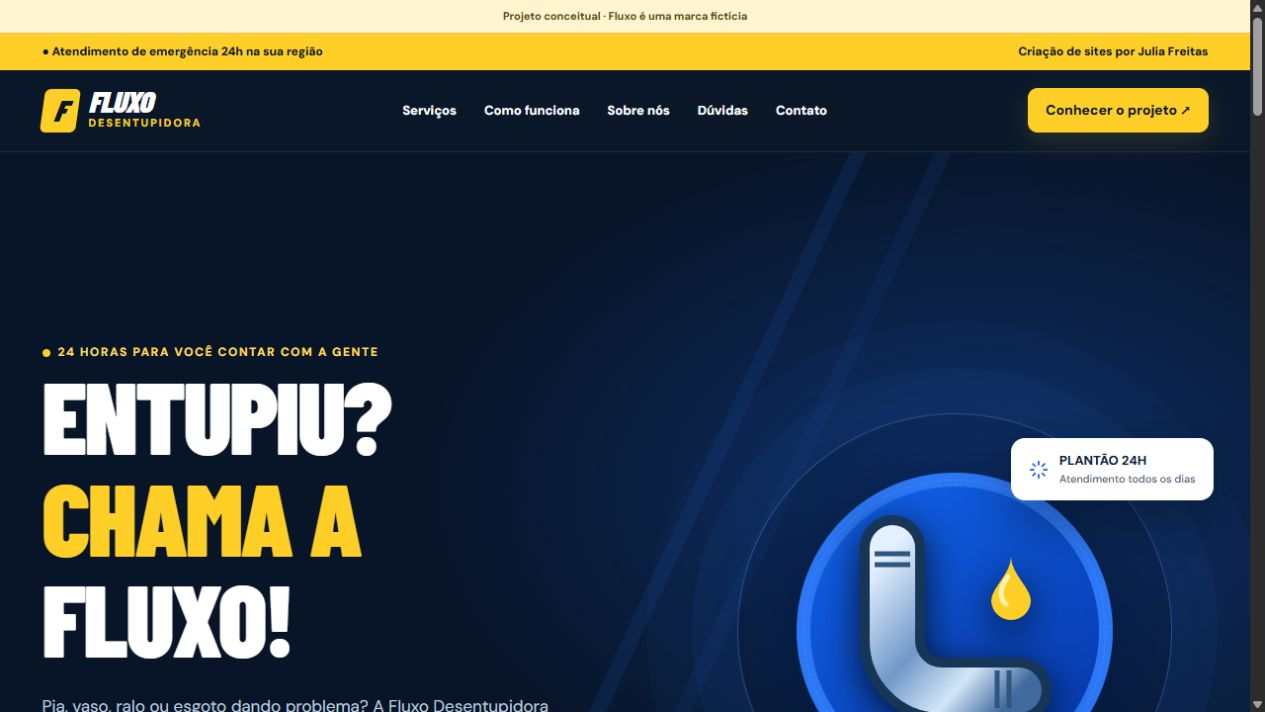
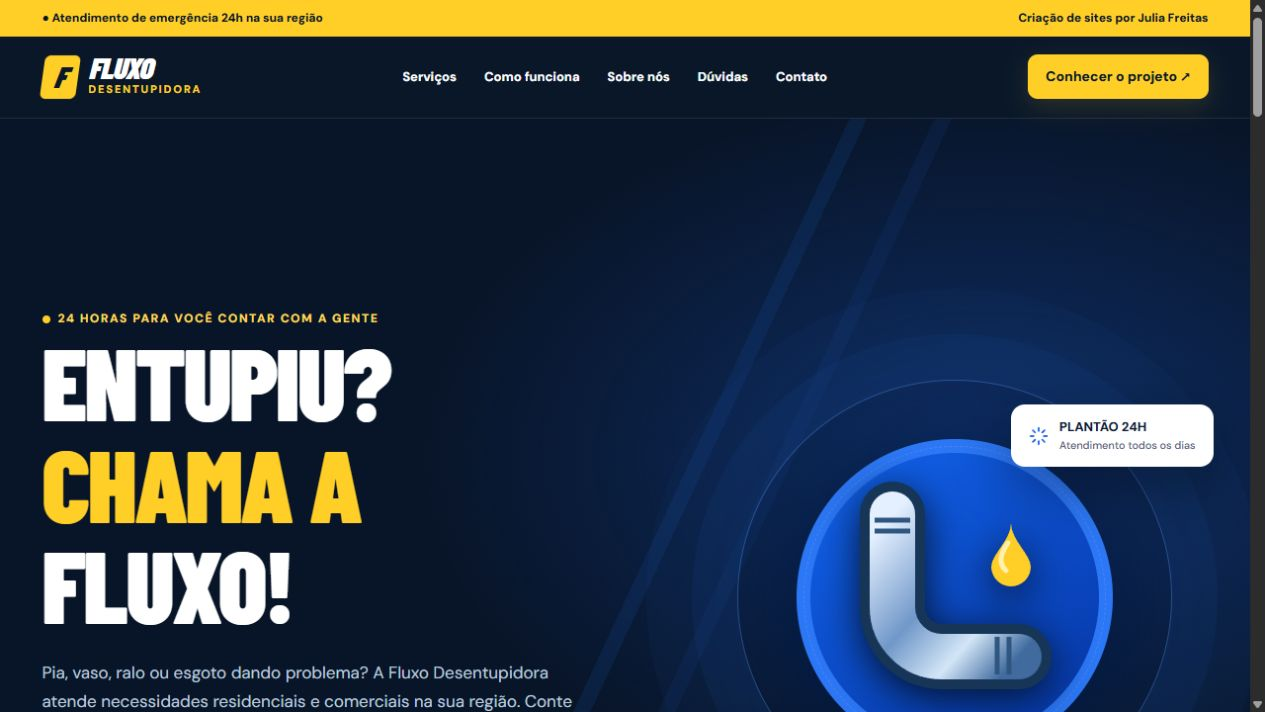
feat: ampliar portfólio com projetos conceituais

diff --git a/src/App.tsx b/src/App.tsx
@@ -190,6 +190,142 @@ const projects = [
     tone: "fight",
     image: "/projects/screenshots/fluxo-desentupidora.jpg",
   },
+  {
+    "index": "13",
+    "title": "Áuria Superfícies",
+    "eyebrow": "Marmoraria • projeto conceitual",
+    "url": "https://julia-conceitos.vercel.app/auria-superficies/",
+    "description": "Uma apresentação de superfícies em pedra com composição editorial, imagens de ambientes e navegação entre aplicações. Marca fictícia criada para o portfólio.",
+    "scope": [
+        "Identidade visual",
+        "Conteúdo",
+        "Design responsivo"
+    ],
+    "context": "Valorizar materiais e possibilidades de uso em espaços residenciais.",
+    "decision": "Combinar contrastes escuros, tipografia ampla e fotografias ilustrativas de arquitetura.",
+    "delivery": "Projeto navegável e responsivo, com imagens ilustrativas e contato para conversar sobre a criação de um site semelhante.",
+    "tone": "stone",
+    "image": "/projects/screenshots/auria-superficies.jpg"
+},
+  {
+    "index": "14",
+    "title": "Orbe Pedras",
+    "eyebrow": "Marmoraria • projeto conceitual",
+    "url": "https://julia-conceitos.vercel.app/orbe-pedras/",
+    "description": "Um site para uma marca fictícia de mármores e granitos, com foco nas relações entre materiais, acabamentos e ambientes. Marca fictícia criada para o portfólio.",
+    "scope": [
+        "Identidade visual",
+        "Conteúdo",
+        "Design responsivo"
+    ],
+    "context": "Organizar a apresentação de materiais e aplicações em uma experiência visual clara.",
+    "decision": "Usar tons naturais, tipografia com serifa e uma hierarquia que aproxima a pedra da arquitetura.",
+    "delivery": "Projeto navegável e responsivo, com imagens ilustrativas e contato para conversar sobre a criação de um site semelhante.",
+    "tone": "stone",
+    "image": "/projects/screenshots/orbe-pedras.jpg"
+},
+  {
+    "index": "15",
+    "title": "Lúmina Vidros",
+    "eyebrow": "Vidros e alumínio • projeto conceitual",
+    "url": "https://julia-conceitos.vercel.app/lumina-vidros/",
+    "description": "Uma apresentação de soluções em vidro e alumínio, com navegação entre serviços e referências de aplicação. Marca fictícia criada para o portfólio.",
+    "scope": [
+        "Identidade visual",
+        "Conteúdo",
+        "Design responsivo"
+    ],
+    "context": "Reunir diferentes possibilidades de uso do vidro em uma página objetiva.",
+    "decision": "Equilibrar uma identidade escura com detalhes em laranja e fotografias ilustrativas de ambientes.",
+    "delivery": "Projeto navegável e responsivo, com imagens ilustrativas e contato para conversar sobre a criação de um site semelhante.",
+    "tone": "stone",
+    "image": "/projects/screenshots/lumina-vidros.jpg"
+},
+  {
+    "index": "16",
+    "title": "Aurum Auto",
+    "eyebrow": "Estética automotiva • projeto conceitual",
+    "url": "https://julia-conceitos.vercel.app/aurum-auto/",
+    "description": "Site conceitual de estética automotiva com apresentação de serviços, navegação por seções e galeria de referências visuais. Marca fictícia criada para o portfólio.",
+    "scope": [
+        "Identidade visual",
+        "Conteúdo",
+        "Design responsivo"
+    ],
+    "context": "Dar clareza aos cuidados automotivos em uma presença digital com acabamento visual.",
+    "decision": "Combinar azul escuro, amarelo e fotografias ilustrativas de veículos com uma navegação direta.",
+    "delivery": "Projeto navegável e responsivo, com imagens ilustrativas e contato para conversar sobre a criação de um site semelhante.",
+    "tone": "fight",
+    "image": "/projects/screenshots/aurum-auto.jpg"
+},
+  {
+    "index": "17",
+    "title": "Nexo Detail",
+    "eyebrow": "Detalhamento automotivo • projeto conceitual",
+    "url": "https://julia-conceitos.vercel.app/nexo-detail/",
+    "description": "Uma apresentação de detalhamento automotivo com identidade escura, referências de veículos e organização dos serviços. Marca fictícia criada para o portfólio.",
+    "scope": [
+        "Identidade visual",
+        "Conteúdo",
+        "Design responsivo"
+    ],
+    "context": "Apresentar possibilidades de cuidado com pintura e interior de veículos.",
+    "decision": "Destacar fotografia e títulos amplos, com uma paleta sóbria e detalhes dourados.",
+    "delivery": "Projeto navegável e responsivo, com imagens ilustrativas e contato para conversar sobre a criação de um site semelhante.",
+    "tone": "fight",
+    "image": "/projects/screenshots/nexo-detail.jpg"
+},
+  {
+    "index": "18",
+    "title": "Chaveiro Elo",
+    "eyebrow": "Chaveiro • projeto conceitual",
+    "url": "https://julia-conceitos.vercel.app/chaveiro-elo/",
+    "description": "Site conceitual com páginas dedicadas a serviços automotivos, residenciais e cópias de chaves. Marca fictícia criada para o portfólio.",
+    "scope": [
+        "Identidade visual",
+        "Conteúdo",
+        "Design responsivo"
+    ],
+    "context": "Organizar serviços técnicos em rotas próprias para facilitar a consulta.",
+    "decision": "Manter navegação direta, identidade amarela e preta e conteúdo distribuído por necessidade.",
+    "delivery": "Projeto navegável e responsivo, com imagens ilustrativas e contato para conversar sobre a criação de um site semelhante.",
+    "tone": "stone",
+    "image": "/projects/screenshots/chaveiro-elo.jpg"
+},
+  {
+    "index": "19",
+    "title": "Desentupidora Livre",
+    "eyebrow": "Serviços residenciais • projeto conceitual",
+    "url": "https://julia-conceitos.vercel.app/livre-desentupidora/",
+    "description": "Página conceitual de serviços hidráulicos com identidade azul e dourada e uma apresentação visual direta. Marca fictícia criada para o portfólio.",
+    "scope": [
+        "Identidade visual",
+        "Conteúdo",
+        "Design responsivo"
+    ],
+    "context": "Facilitar a compreensão de diferentes tipos de serviço em uma página.",
+    "decision": "Usar contraste, títulos objetivos e ilustrações para conduzir a leitura até os serviços.",
+    "delivery": "Projeto navegável e responsivo, com imagens ilustrativas e contato para conversar sobre a criação de um site semelhante.",
+    "tone": "fight",
+    "image": "/projects/screenshots/livre-desentupidora.jpg"
+},
+  {
+    "index": "20",
+    "title": "Desentupidora Canal",
+    "eyebrow": "Serviços residenciais • projeto conceitual",
+    "url": "https://julia-conceitos.vercel.app/canal-desentupidora/",
+    "description": "Um site conceitual de desentupimento com serviços organizados e ilustrações hidráulicas próprias. Marca fictícia criada para o portfólio.",
+    "scope": [
+        "Identidade visual",
+        "Conteúdo",
+        "Design responsivo"
+    ],
+    "context": "Explorar uma apresentação simples para serviços residenciais e comerciais.",
+    "decision": "Combinar azul profundo e verde-lima com ilustrações e navegação por seções.",
+    "delivery": "Projeto navegável e responsivo, com imagens ilustrativas e contato para conversar sobre a criação de um site semelhante.",
+    "tone": "fight",
+    "image": "/projects/screenshots/canal-desentupidora.jpg"
+},
 ];
 
 const services = [
